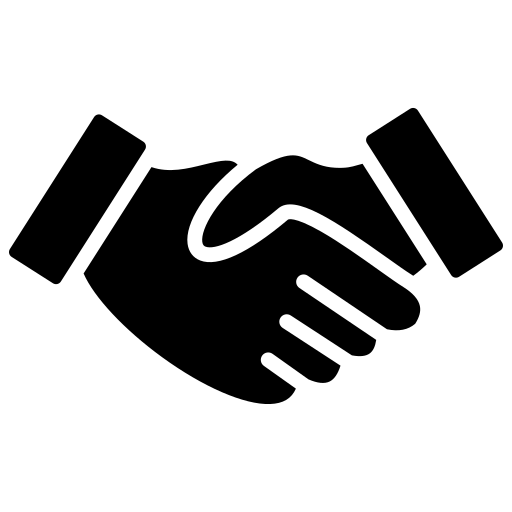
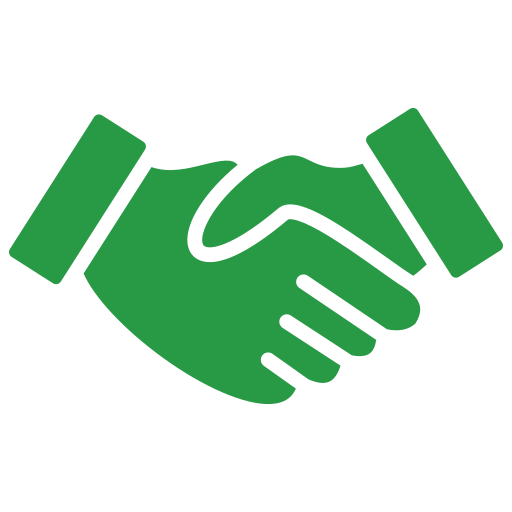
Update 16 - Green color update

Changed region(s): [[0.0, 0.1875, 1.0, 0.8125]]

diff --git a/style.css b/style.css
@@ -6,13 +6,21 @@
     --glass-bg: rgba(255, 255, 255, 0.05);
     --font-primary: "Archivo Black", serif;
     --font-secondary: "Poppins", sans-serif;
+    --brandzone-green: rgba(40, 153, 69, 1);
+    --brandzone-green-50: rgba(40, 153, 69, 0.5);
+    --brandzone-green-30: rgba(40, 153, 69, 0.3);
+}
+
+.color-bz-green {
+    color: var(--brandzone-green) !important;
 }
 
 .card-effects {
-    box-shadow: 0 0 8vw rgba(255, 255, 255, 0.2) !important;
+    /*box-shadow: 0 0 8vw rgba(255, 255, 255, 0.2) !important;*/
+    box-shadow: 0 0 5vw var(--brandzone-green-30) !important;   
     backdrop-filter: blur(8px) !important;
     -webkit-backdrop-filter: blur(5px) !important;
-    border: 1px solid rgba(255, 255, 255, 0.1) !important;
+    border: 1px solid /*rgba(255, 255, 255, 0.1)*/ var(--brandzone-green-50) !important;
 }
 
 body,
@@ -105,7 +113,8 @@ a.menu:hover,
     font-weight: 300;
     font-size: 0.9rem;
     letter-spacing: 1.2px;
-    background-color: white;
+    /*background-color: white;*/
+    background-color: var(--brandzone-green) !important;
     color: black;
     position: absolute;
     right: 26px;
@@ -117,6 +126,7 @@ a.menu:hover,
     align-items: center;
     justify-content: center;
     cursor: pointer;
+    box-shadow: 0 0 10px var(--brandzone-green);
 }
 
 .a-menu-button a {
@@ -749,11 +759,12 @@ div.counter-box {
 .counter-box p {
     font-weight: 300;
     font-family: var(--font-secondary);
+    color: var(--brandzone-green) !important;
 }
 
 .counter-box img {
     width: 4rem;
-    filter: drop-shadow(0 0 5px #ffffff);
+    filter: drop-shadow(0 0 5px /*#ffffff*/ var(--brandzone-green));
     padding: 10px;
 }
 
@@ -932,9 +943,9 @@ ul {
     font-family: var(--font-secondary);
 }
 
-ul.w-inverted-icons img {
+/*ul.w-inverted-icons img {
     filter: invert();
-}
+}*/
 
 .banner-placeholder li img {
     width: 1rem;
@@ -1214,12 +1225,13 @@ p.desc {
 }
 
 .form input[type="submit"] {
-    background-color: white;
+    background-color: /*white*/ var(--brandzone-green);
     color: black;
     width: 40%;
     height: 50%;
     font-family: var(--font-secondary);
     margin-top: 1rem;
+    box-shadow: 0 0 10px var(--brandzone-green);
 }
 
 div#submit-button {
@@ -1229,13 +1241,16 @@ div#submit-button {
 }
 
 .form input:hover,
-.form textarea:hover {
-    border: 1px solid white;
+.form textarea:hover,
+.form input:focus,
+.form textarea:focus {
+    border: 1px solid /*white*/ var(--brandzone-green);
 }
 
 .form input[type="submit"]:hover {
-    border: 1px solid black;
-    background-color: rgba(255, 255, 255, 0.7);
+    /*border: 1px solid black;*/
+    border: none;
+    background-color: /*rgba(255, 255, 255, 0.7)*/ var(--brandzone-green-50);
     cursor: pointer;
 }
 

diff --git a/index.html b/index.html
@@ -115,7 +115,7 @@ j=d.createElement(s),dl=l!='dataLayer'?'&l='+l:'';j.async=true;j.src=
                 <source src="https://brandzone-pullzone.b-cdn.net/hero_video.mp4" type="video/mp4">
             </video>
             <h1 class="header brandson">BRANDS ON.</h1>
-            <p class="header">Created by BRANDZONE</p>
+            <p class="color-bz-green header">Created by BRANDZONE</p>
         </header>
     </div>
     <div class="content">

diff --git a/style-media.css b/style-media.css
@@ -69,8 +69,13 @@
         align-items: center;
         justify-content: space-around;
     }
+    .icon-wrapper {
+        display: flex;
+        align-items: center;
+        justify-content: center;
+    }
     .contact-holder img {
-        display: inline;
+        display: block;
         min-width: 30px;
         max-width: 30px;
         height: 30px;
